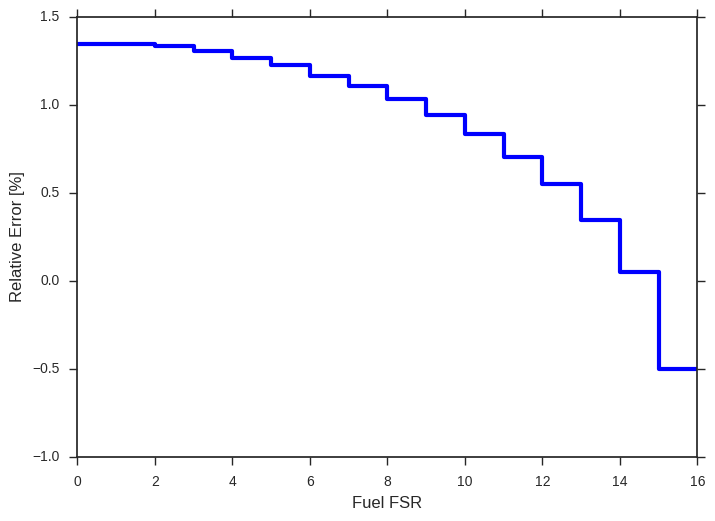
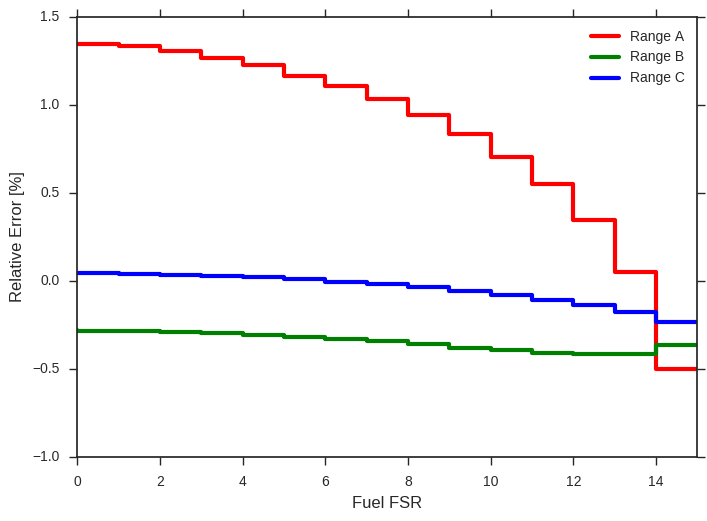
Added figure with spatial flux errors for ranges A, B and C for slab

diff --git a/chapters/biases.tex b/chapters/biases.tex
@@ -622,10 +622,9 @@ The trends analyzed in Tab.~\ref{table:chap5-pin-energy} emerge in a similar man
 \section{Diagnosing the Error}
 \label{sec:chap5-diagnosis}
 
-The emergence of a negative systematic bias in the eigenvalue with fine energy and spatial discretization for the heterogeneous 1D slab and 2D fuel pin models led to an analysis of the flux spectra computed by OpenMC and OpenMOC. The 70-group volume-averaged flux in energy for both benchmarks is illustrated in Fig.~\ref{fig:chap5-flux}. Upon further inspection, it was noted that OpenMOC's flux exhibited large errors with respect to the reference OpenMC flux in those energy groups which isolate large U-238 capture resonances. The error in the 70-group flux is illustrated in Fig.~\ref{fig:chap5-rel-err-energy} for the \ac{FSR}s nearest and furthest from the moderator for the benchmark models with a 16$\times$ \ac{FSR} discretization. Fig.~\ref{fig:chap5-rel-err-space} highlights the spatial dependence of the error in group 27 across the fuel which isolates the largest U-238 capture resonance at 6.67 eV. For both the slab and the fuel pin the error monotonically decreases from a maximum of more than 2\% to a minimum of $\sim$-0.3\% in those \ac{FSR}s furthest and nearest the moderator, respectively. 
+The emergence of a negative systematic bias in the eigenvalue with fine energy and spatial discretization for the heterogeneous 1D slab and 2D fuel pin models led to an analysis of the flux spectra computed by OpenMC and OpenMOC. The 70-group volume-averaged energy-dependent flux in the fuel for both benchmarks is illustrated in Fig.~\ref{fig:chap5-flux}. Upon further inspection, it was noted that OpenMOC's flux exhibited large errors with respect to the reference OpenMC flux in those energy groups which isolate large U-238 capture resonances. The error in the 70-group flux is illustrated in Fig.~\ref{fig:chap5-rel-err-energy} for the \ac{FSR}s nearest and furthest from the moderator for the benchmark models with a 16$\times$ \ac{FSR} discretization. Fig.~\ref{fig:chap5-rel-err-space} highlights the spatial dependence of the error in group 27 across the fuel which isolates the largest U-238 capture resonance at 6.67 eV. For both the slab and the fuel pin the error monotonically decreases from a maximum of more than 2\% to a minimum of $\sim$-0.3\% in those \ac{FSR}s furthest and nearest the moderator, respectively. 
 
 \begin{itemize}[noitemsep]
-  \item Only plot the flux in the fuel
   \item Add footnote making mention of the closeness between OpenMC/MOC
 \end{itemize}
 
@@ -659,11 +658,6 @@ The emergence of a negative systematic bias in the eigenvalue with fine energy a
 \label{fig:chap5-rel-err-energy}
 \end{figure}
 
-\begin{itemize}[noitemsep]
-  \item Add group to the figure of spatially-varying error
-  \item Add spatially-varying error for Ranges A, B and C to each plot
-\end{itemize}
-
 \begin{figure}[H]
 \begin{subfigure}{.9\textwidth}
   \centering
@@ -675,7 +669,7 @@ The emergence of a negative systematic bias in the eigenvalue with fine energy a
   \includegraphics[width=\linewidth]{figures/biases/pin-cell/rel-err-fuel-fsrs}
   \caption{}
 \end{subfigure}
-\caption[Flux relative error by FSR]{The spatially-varying relative error of the OpenMOC scalar flux with respect to the reference OpenMC flux for a 1D slab (a) and 2D fuel pin (b). The results correspond Tables~\ref{table:chap5-slab-space} and~\ref{table:chap5-pin-space} for \ac{MGXS} tallied on a 16$\times$ \ac{FSR} mesh with iso-in-lab scattering. The errors are plotted for each of the 16 \ac{FSR}s in the fuel.}
+\caption[Flux relative error by FSR]{The spatially-varying relative error of the OpenMOC scalar flux with respect to the reference OpenMC flux for a 1D slab (a) and 2D fuel pin (b) in group 27. The results correspond to Tables~\ref{table:chap5-slab-space} and~\ref{table:chap5-pin-space} for \ac{MGXS} tallied on a 16$\times$ \ac{FSR} mesh with iso-in-lab scattering. The errors are plotted for each of the 16 \ac{FSR}s in the fuel.}
 \label{fig:chap5-rel-err-space}
 \end{figure}
 

diff --git a/data/biases/pin-cell/plot-flux.py b/data/biases/pin-cell/plot-flux.py
@@ -316,3 +316,50 @@ plt.ylabel('Relative Error [%]', fontsize=12)
 plt.xlim((0, rel_err.shape[0]-1))
 plt.savefig('rel-err-fuel-fsrs.png', bbox_inches='tight')
 plt.close()
+
+
+###############################################################################
+#        Plot OpenMC-to-OpenMOC Flux Error Across Fuel FSRs in Ranges A, B, C
+###############################################################################
+
+# Find energy group which encompasses 6.67 eV resonance
+min_ind = mgxs_lib.energy_groups.get_group(6.67e-6) - 1
+
+# Find energy group which encompasses 200 kEV
+max_ind = mgxs_lib.energy_groups.get_group(2.e-2) - 1
+
+# Compute OpenMOC flux in ranges A, B, and C for each fuel FSR
+openmoc_flux_a = openmoc_fluxes[fuel_indices, group_index]
+openmoc_flux_b = np.sum(openmoc_fluxes[fuel_indices, max_ind:min_ind], axis=1)
+openmoc_flux_c = np.sum(openmoc_fluxes[fuel_indices, :], axis=1)
+
+# Compute OpenMC flux in ranges A, B, and C for each fuel FSR
+openmc_flux_a = openmc_fluxes[fuel_indices, group_index]
+openmc_flux_b = np.sum(openmc_fluxes[fuel_indices, max_ind:min_ind], axis=1)
+openmc_flux_c = np.sum(openmc_fluxes[fuel_indices, :], axis=1)
+
+# Compute flux rel. err. for ranges A, B, and C for each fuel FSR
+delta_flux_a = openmoc_flux_a - openmc_flux_a
+delta_flux_b = openmoc_flux_b - openmc_flux_b
+delta_flux_c = openmoc_flux_c - openmc_flux_c
+rel_err_a = delta_flux_a / openmc_flux_a * 100.
+rel_err_b = delta_flux_b / openmc_flux_b * 100.
+rel_err_c = delta_flux_c / openmc_flux_c * 100.
+
+# Extend the rel er array for matplotlib's step plot of fluxes
+fuel_indices = fuel_indices[::-1]
+rel_err_a = np.insert(rel_err_a, 0, rel_err_a[0], axis=0)
+rel_err_b = np.insert(rel_err_b, 0, rel_err_b[0], axis=0)
+rel_err_c = np.insert(rel_err_c, 0, rel_err_c[0], axis=0)
+
+# Plot the relative errors
+fig = plt.figure()
+plt.plot(np.arange(rel_err_a.shape[0]), rel_err_a, drawstyle='steps', color='r', linewidth=3)
+plt.plot(np.arange(rel_err_b.shape[0]), rel_err_b, drawstyle='steps', color='g', linewidth=3)
+plt.plot(np.arange(rel_err_c.shape[0]), rel_err_c, drawstyle='steps', color='b', linewidth=3)
+plt.legend(['Range A', 'Range B', 'Range C'])
+plt.xlabel('Fuel FSR', fontsize=12)
+plt.ylabel('Relative Error [%]', fontsize=12)
+plt.xlim((0, rel_err_a.shape[0]-1))
+plt.savefig('rel-err-fuel-fsrs-ranges.png', bbox_inches='tight')
+plt.close()

diff --git a/data/biases/slab/plot-flux-energy.py b/data/biases/slab/plot-flux-energy.py
@@ -275,3 +275,44 @@ plt.ylabel('Relative Error [%]', fontsize=12)
 plt.xlim((0, rel_err.shape[0]-1))
 plt.savefig('rel-err-fuel-fsrs.png', bbox_inches='tight')
 plt.close()
+
+
+###############################################################################
+#        Plot OpenMC-to-OpenMOC Flux Error Across Fuel FSRs in Ranges A, B, C
+###############################################################################
+
+# Find energy group which encompasses 6.67 eV resonance
+min_ind = mgxs_lib.energy_groups.get_group(6.67e-6) - 1
+
+# Find energy group which encompasses 200 kEV
+max_ind = mgxs_lib.energy_groups.get_group(2.e-2) - 1
+
+# Compute OpenMOC flux in ranges A, B, and C for each fuel FSR
+openmoc_flux_a = openmoc_fluxes[fuel_indices, group_index]
+openmoc_flux_b = np.sum(openmoc_fluxes[fuel_indices, max_ind:min_ind], axis=1)
+openmoc_flux_c = np.sum(openmoc_fluxes[fuel_indices, :], axis=1)
+
+# Compute OpenMC flux in ranges A, B, and C for each fuel FSR
+openmc_flux_a = openmc_fluxes[fuel_indices, group_index]
+openmc_flux_b = np.sum(openmc_fluxes[fuel_indices, max_ind:min_ind], axis=1)
+openmc_flux_c = np.sum(openmc_fluxes[fuel_indices, :], axis=1)
+
+# Compute flux rel. err. for ranges A, B, and C for each fuel FSR
+delta_flux_a = openmoc_flux_a - openmc_flux_a
+delta_flux_b = openmoc_flux_b - openmc_flux_b
+delta_flux_c = openmoc_flux_c - openmc_flux_c
+rel_err_a = delta_flux_a / openmc_flux_a * 100.
+rel_err_b = delta_flux_b / openmc_flux_b * 100.
+rel_err_c = delta_flux_c / openmc_flux_c * 100.
+
+# Plot the relative errors
+fig = plt.figure()
+plt.plot(np.arange(rel_err_a.shape[0]), rel_err_a, drawstyle='steps', color='r', linewidth=3)
+plt.plot(np.arange(rel_err_b.shape[0]), rel_err_b, drawstyle='steps', color='g', linewidth=3)
+plt.plot(np.arange(rel_err_c.shape[0]), rel_err_c, drawstyle='steps', color='b', linewidth=3)
+plt.legend(['Range A', 'Range B', 'Range C'])
+plt.xlabel('Fuel FSR', fontsize=12)
+plt.ylabel('Relative Error [%]', fontsize=12)
+plt.xlim((0, rel_err_a.shape[0]-1))
+plt.savefig('rel-err-fuel-fsrs-ranges.png', bbox_inches='tight')
+plt.close()
